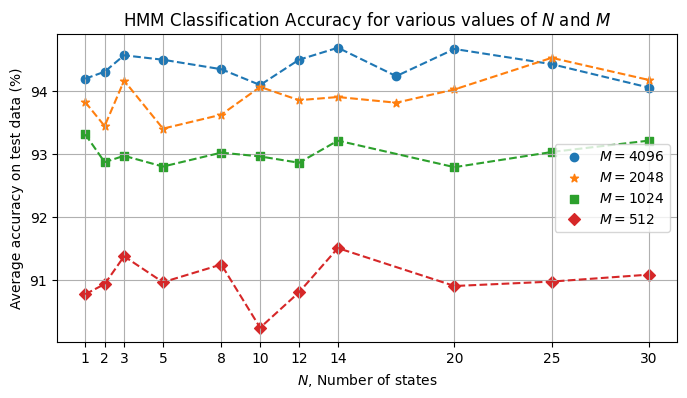
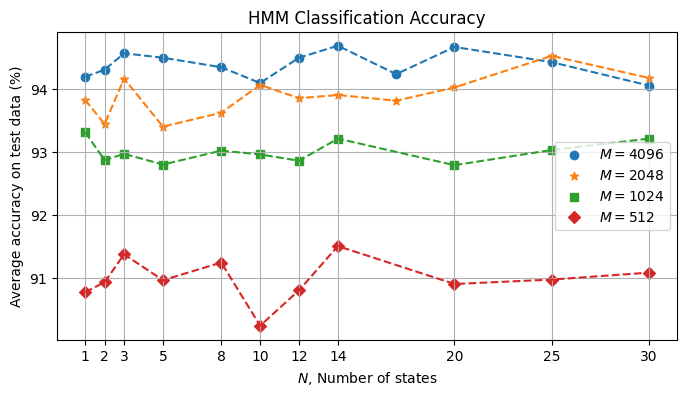
various updates

diff --git a/workspace/vq-scatter-vs-P.py b/workspace/vq-scatter-vs-P.py
@@ -6,19 +6,22 @@ import matplotlib.pyplot as plt
 #   python3 ./vq-scatter-vs-P.py vq-summary.csv
 
 
-def plot_csv(filename):
-    df = pd.read_csv(filename, comment='#')
-    # print(df)
-
+def plot_csv(df, do_zoom):
     # just enough markers (we don't have many different M values)
     markers = ['o', '*', 's', 'D', '^', '>', '1', '2', '3', '4', '|', '_']
     marker_index = 0
 
-    fig = plt.figure(figsize=(10, 4))
+    if do_zoom:
+      selected_rows = df.loc[df['P'] > 20]
+      fig = plt.figure(figsize=(7, 3))
+      ms = [4096, 2048, 1024, 512, 256]
+    else:
+      selected_rows = df
+      fig = plt.figure(figsize=(7, 7))
+      ms = [4096, 2048, 1024, 512, 256, 128, 64, 32, 16, 8, 4, 2]
 
-    # for m in [4096, 2048, 1024, 512, 256, 128, 64, 32]:
-    for m in [4096, 2048, 1024, 512]:
-      rows = df.loc[df['M'] == m]
+    for m in ms:
+      rows = selected_rows.loc[selected_rows['M'] == m]
       orders = rows['P']
       avgAcs = rows['Test avgAc']
 
@@ -28,13 +31,15 @@ def plot_csv(filename):
       plt.xticks(orders)
       plt.grid(True)
 
-    # plt.title(title)
-    plt.legend(loc='best')  # lower right
+    if not do_zoom:
+      plt.legend(loc='best', ncol=3,)  # lower right
+
     plt.ylabel('Average accuracy on test data (%)')
     plt.xlabel('$P$, Prediction Order')
-    plt.title('VQ Classification Accuracy for various values of $P$ and $M$')
+    plt.title('VQ Classification Accuracy')
 
-    fig.savefig('vq-scatter-vs-P.png', bbox_inches='tight')
+    filename = 'vq-scatter-vs-P{}.png'.format('_zoom' if do_zoom else '')
+    fig.savefig(filename, bbox_inches='tight')
     # plt.show(block=True)
 
 
@@ -45,4 +50,8 @@ if __name__ == "__main__":
         exit(1)
 
     csv_filename = argv[1]
-    plot_csv(csv_filename)
+    df = pd.read_csv(csv_filename, comment='#')
+    # print(df)
+
+    plot_csv(df, do_zoom=True)
+    plot_csv(df, do_zoom=False)

diff --git a/workspace/all-methods-summary.py b/workspace/all-methods-summary.py
@@ -3,17 +3,17 @@ import numpy as np
 
 
 def do_plot():
-  fig = plt.figure(figsize=(8, 4))
-  x = [1, 2, 3]
-  error = [5.94, 8.8, 5.32]
-  plt.yticks(error, ['{:.3g}'.format(e) for e in error])
-  plt.ylim([0, 9])
-  plt.ylabel('Average accuracy error (%)')
+  fig = plt.figure(figsize=(5, 3))
+  x = [1, 2, 3, 4]
+  error = [3.99, 5.94, 8.8, 5.32]
+  plt.yticks(error, ['{:.3g}%'.format(e) for e in error])
+  plt.ylim([0, 10])
+  # plt.ylabel('Average error')
 
   plt.bar(x, error)
-  plt.xticks(x, ['B-Bayes', 'M-Chain', 'HMM'])
-
-  plt.title('Classification Accuracy Error Summary')
+  plt.xticks(x, ['VQ\n(512)', 'N-Bayes\n(4096)', 'M-Chain\n(512)', 'HMM\n(14, 4096)'])
+  plt.grid(True, axis='y')
+  plt.title('Classification Error Summary ($P=120$)')
 
   fig.savefig('all-methods-summary.png', bbox_inches='tight')
   # fig.show()

diff --git a/workspace/nb-scatter-vs-P.py b/workspace/nb-scatter-vs-P.py
@@ -14,7 +14,7 @@ def plot_csv(filename):
     markers = ['o', '*', 's', 'D', '^', '>', '1', '2', '3', '4', '|', '_']
     marker_index = 0
 
-    fig = plt.figure(figsize=(16, 4))
+    fig = plt.figure(figsize=(6, 4))
 
     # for m in [4096, 2048, 1024, 512, 256, 128, 64, 32]:
     for m in [4096, 2048, 1024, 512]:
@@ -29,10 +29,10 @@ def plot_csv(filename):
       plt.grid(True)
 
     # plt.title(title)
-    plt.legend(loc='best')  # lower right
+    plt.legend(loc='lower right')
     plt.ylabel('Average accuracy on test data (%)')
     plt.xlabel('$P$, Prediction Order')
-    plt.title('N-Bayes Classification Accuracy for various values of $P$ and $M$')
+    plt.title('N-Bayes Classification Accuracy')
 
     fig.savefig('nb-scatter-vs-P.png', bbox_inches='tight')
     # plt.show(block=True)

diff --git a/workspace/P120/hmm-scatter.py b/workspace/P120/hmm-scatter.py
@@ -34,7 +34,7 @@ def plot_csv(filename):
     plt.legend(loc='best')  # lower right
     plt.ylabel('Average accuracy on test data (%)')
     plt.xlabel('$N$, Number of states')
-    plt.title('HMM Classification Accuracy for various values of $N$ and $M$')
+    plt.title('HMM Classification Accuracy')
 
     fig.savefig('hmm-scatter.png', bbox_inches='tight')
     # plt.show(block=True)
